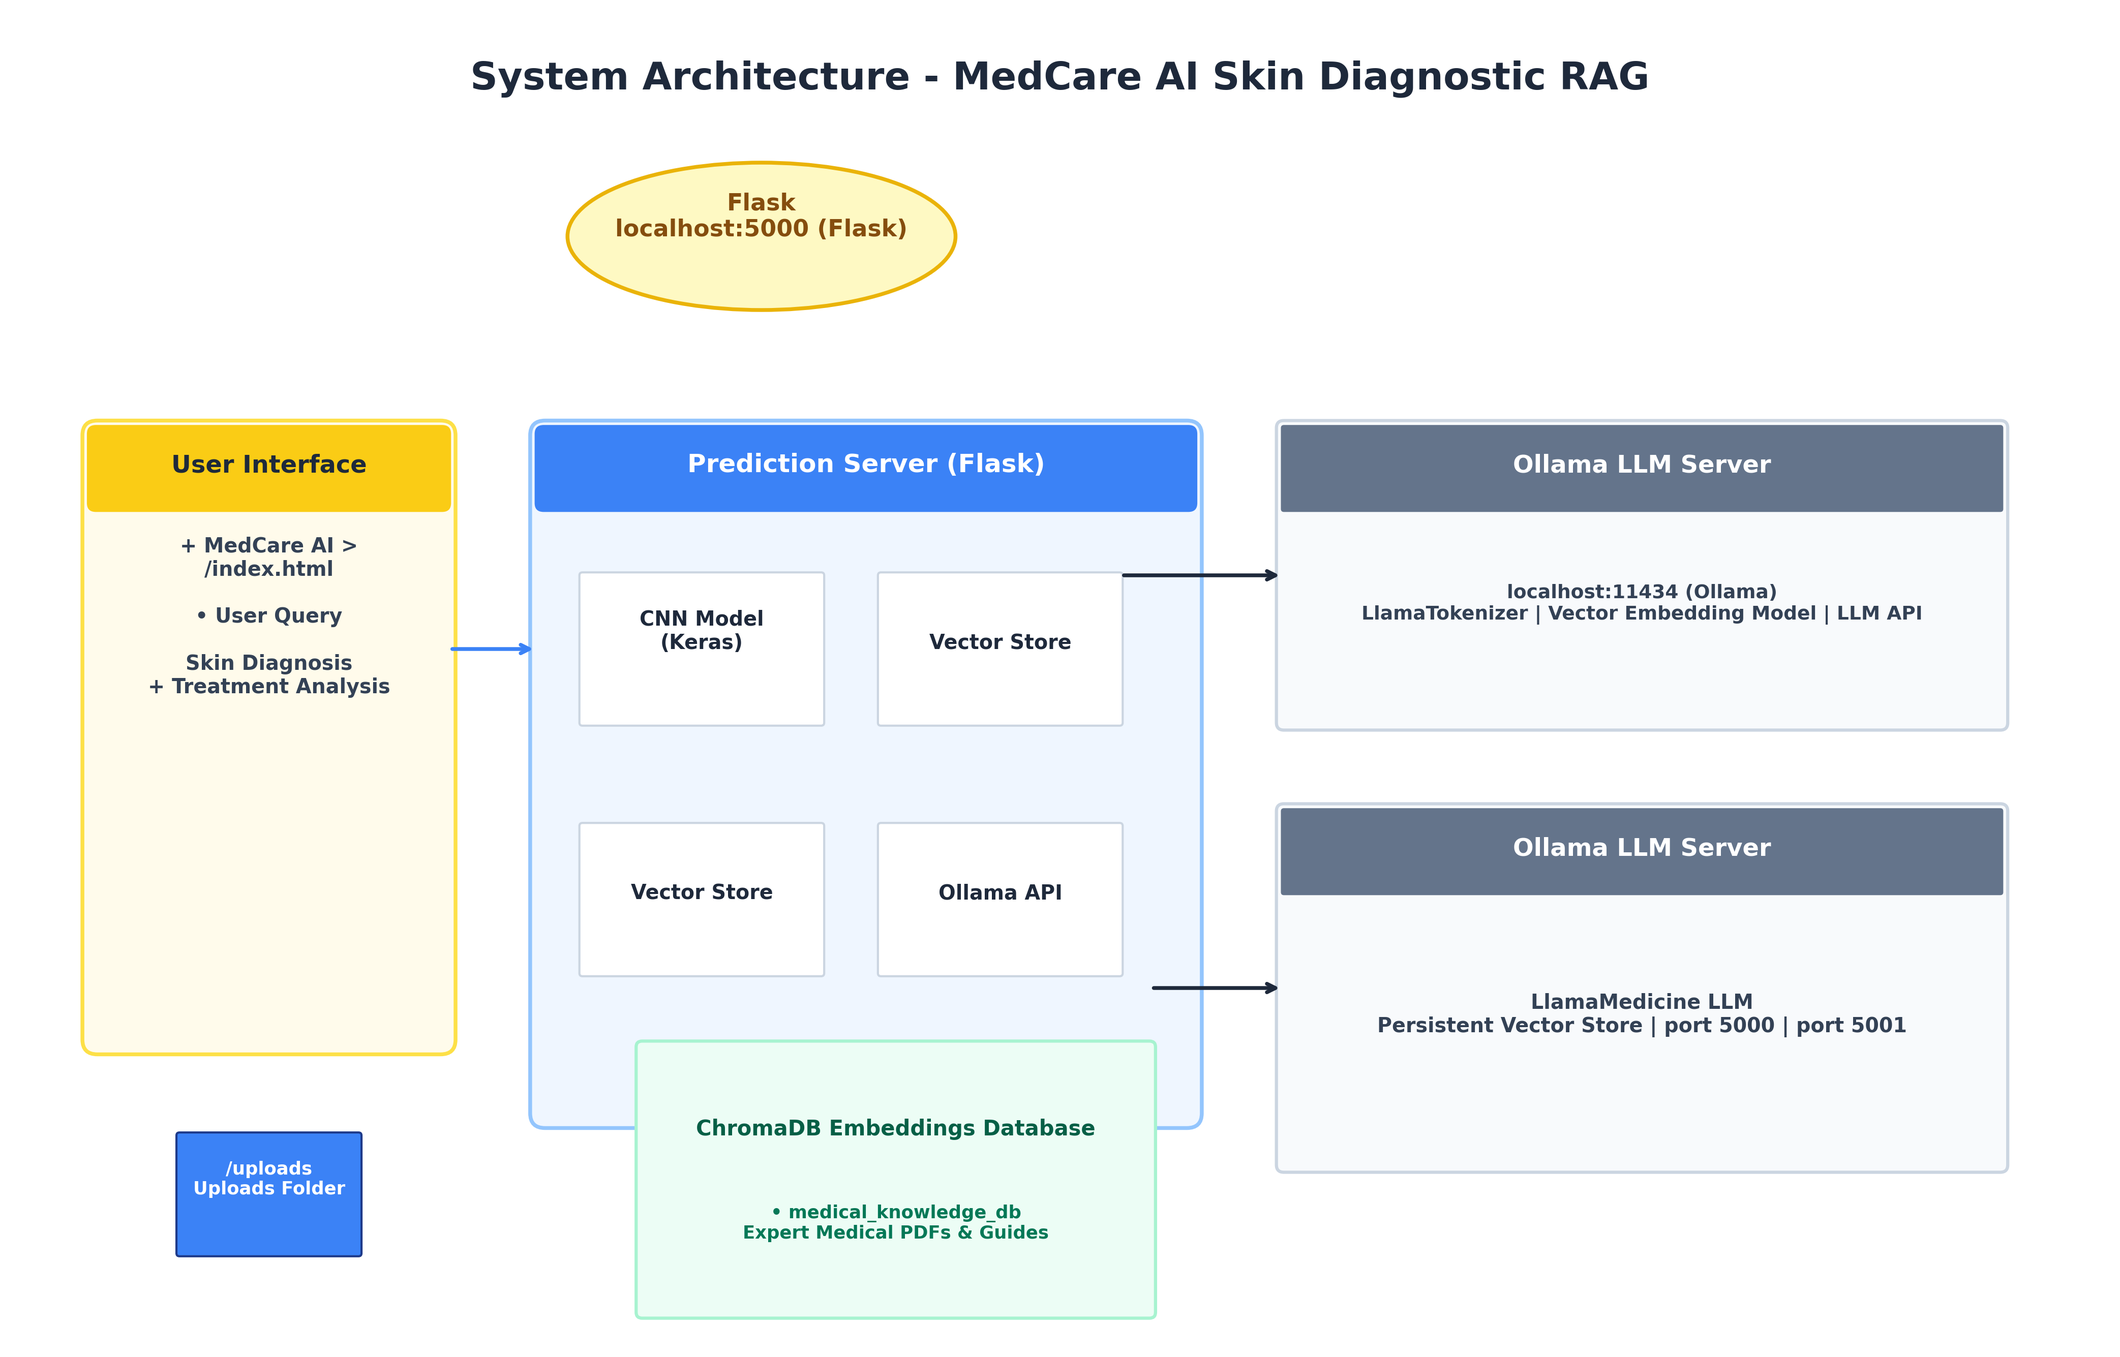
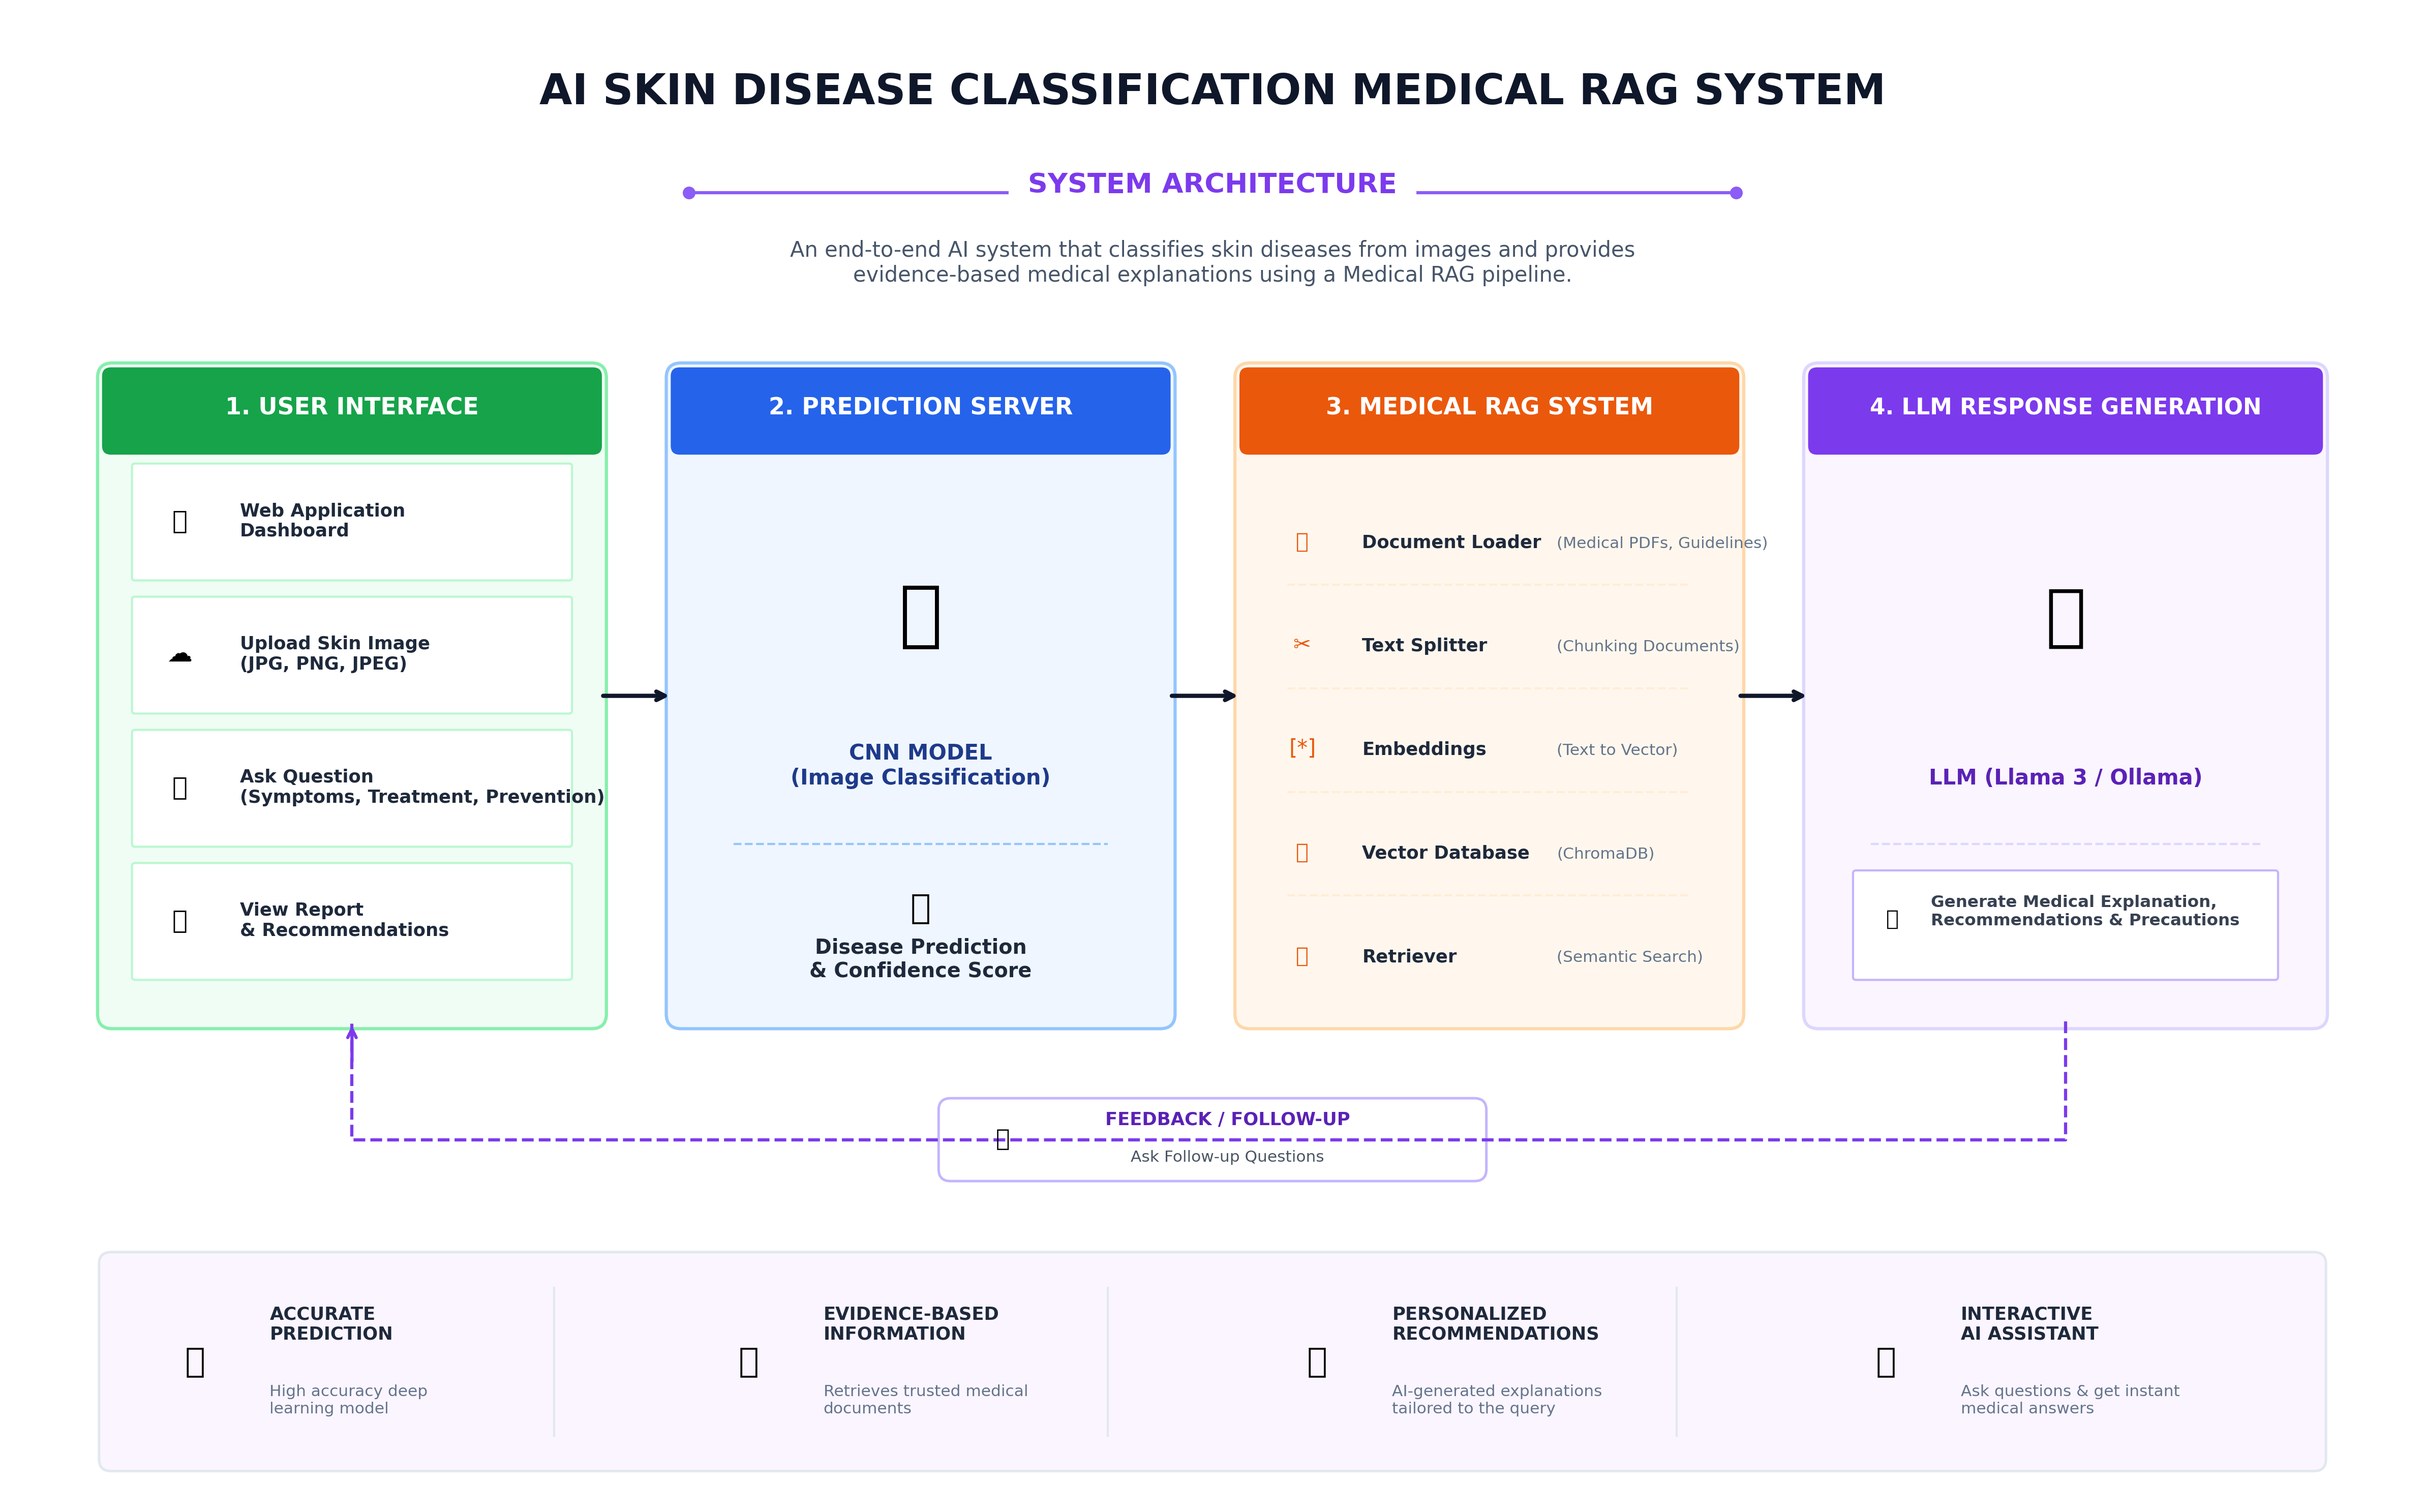
Update README with 1:1 System Architecture Infographic diagram

diff --git a/render_exact_infographic.py b/render_exact_infographic.py
@@ -1,0 +1,165 @@
+"""
+Renders a 1:1 high-resolution vector infographic matching the user's exact uploaded image:
+'AI SKIN DISEASE CLASSIFICATION MEDICAL RAG SYSTEM - SYSTEM ARCHITECTURE'
+"""
+
+import os
+import matplotlib
+matplotlib.use('Agg')
+import matplotlib.pyplot as plt
+import matplotlib.patches as patches
+
+def draw_exact_infographic():
+    fig, ax = plt.subplots(figsize=(16, 10), dpi=300)
+    fig.patch.set_facecolor('#ffffff')
+    ax.set_facecolor('#ffffff')
+    ax.set_xlim(0, 160)
+    ax.set_ylim(0, 100)
+    ax.axis('off')
+
+    # =========================================================================
+    # 1. Header Section
+    # =========================================================================
+    ax.text(80, 94, "AI SKIN DISEASE CLASSIFICATION MEDICAL RAG SYSTEM", 
+            fontsize=20, fontweight='extra bold', ha='center', color='#0f172a')
+    
+    # Subtitle line
+    ax.plot([45, 115], [88, 88], color='#8b5cf6', lw=1.5)
+    ax.scatter([45, 115], [88, 88], color='#8b5cf6', s=25, zorder=5)
+    ax.text(80, 88, " SYSTEM ARCHITECTURE ", fontsize=13, fontweight='bold', ha='center', color='#7c3aed', backgroundcolor='#ffffff')
+
+    ax.text(80, 82, "An end-to-end AI system that classifies skin diseases from images and provides\nevidence-based medical explanations using a Medical RAG pipeline.", 
+            fontsize=10, ha='center', color='#475569')
+
+    # =========================================================================
+    # 2. Four Main Column Cards
+    # =========================================================================
+    
+    # Card 1: 1. USER INTERFACE (Green)
+    c1_bg = patches.FancyBboxPatch((6, 32), 33, 44, boxstyle="round,pad=0.5,rounding_size=1", ec="#86efac", fc="#f0fdf4", lw=1.5)
+    ax.add_patch(c1_bg)
+    c1_hdr = patches.FancyBboxPatch((6, 70.5), 33, 5.5, boxstyle="round,pad=0.2,rounding_size=0.6", ec="#16a34a", fc="#16a34a", lw=0)
+    ax.add_patch(c1_hdr)
+    ax.text(22.5, 73, "1. USER INTERFACE", fontsize=11, fontweight='bold', ha='center', color='#ffffff')
+
+    # Items inside Card 1
+    items1 = [
+        ("🖥", "Web Application\nDashboard"),
+        ("☁", "Upload Skin Image\n(JPG, PNG, JPEG)"),
+        ("💬", "Ask Question\n(Symptoms, Treatment, Prevention)"),
+        ("📋", "View Report\n& Recommendations")
+    ]
+    for idx, (icon, label) in enumerate(items1):
+        y_pos = 62 - (idx * 9)
+        ibox = patches.FancyBboxPatch((8, y_pos), 29, 7.5, boxstyle="round,pad=0.2", ec="#bbf7d0", fc="#ffffff", lw=1)
+        ax.add_patch(ibox)
+        ax.text(11, y_pos + 3.8, icon, fontsize=12, ha='center', va='center')
+        ax.text(15, y_pos + 3.8, label, fontsize=8.5, fontweight='bold', color='#1e293b', va='center')
+
+    # Card 2: 2. PREDICTION SERVER (Blue)
+    c2_bg = patches.FancyBboxPatch((44, 32), 33, 44, boxstyle="round,pad=0.5,rounding_size=1", ec="#93c5fd", fc="#eff6ff", lw=1.5)
+    ax.add_patch(c2_bg)
+    c2_hdr = patches.FancyBboxPatch((44, 70.5), 33, 5.5, boxstyle="round,pad=0.2,rounding_size=0.6", ec="#2563eb", fc="#2563eb", lw=0)
+    ax.add_patch(c2_hdr)
+    ax.text(60.5, 73, "2. PREDICTION SERVER", fontsize=11, fontweight='bold', ha='center', color='#ffffff')
+
+    # Brain Circuit Graphic
+    ax.text(60.5, 58, "🧠", fontsize=34, ha='center')
+    ax.text(60.5, 48, "CNN MODEL\n(Image Classification)", fontsize=10, fontweight='bold', ha='center', color='#1e3a8a')
+    
+    # Dashed line inside Card 2
+    ax.plot([48, 73], [44, 44], color='#93c5fd', lw=1, linestyle='--')
+
+    ax.text(60.5, 39, "📊", fontsize=16, ha='center')
+    ax.text(60.5, 35, "Disease Prediction\n& Confidence Score", fontsize=9.5, fontweight='bold', ha='center', color='#1e293b')
+
+    # Card 3: 3. MEDICAL RAG SYSTEM (Orange)
+    c3_bg = patches.FancyBboxPatch((82, 32), 33, 44, boxstyle="round,pad=0.5,rounding_size=1", ec="#fed7aa", fc="#fff7ed", lw=1.5)
+    ax.add_patch(c3_bg)
+    c3_hdr = patches.FancyBboxPatch((82, 70.5), 33, 5.5, boxstyle="round,pad=0.2,rounding_size=0.6", ec="#ea580c", fc="#ea580c", lw=0)
+    ax.add_patch(c3_hdr)
+    ax.text(98.5, 73, "3. MEDICAL RAG SYSTEM", fontsize=11, fontweight='bold', ha='center', color='#ffffff')
+
+    items3 = [
+        ("📁", "Document Loader", "(Medical PDFs, Guidelines)"),
+        ("✂", "Text Splitter", "(Chunking Documents)"),
+        ("[*]", "Embeddings", "(Text to Vector)"),
+        ("🛢", "Vector Database", "(ChromaDB)"),
+        ("🔍", "Retriever", "(Semantic Search)")
+    ]
+    for idx, (icon, title, sub) in enumerate(items3):
+        y_pos = 64 - (idx * 7)
+        ax.text(86, y_pos, icon, fontsize=10, ha='center', color='#ea580c')
+        ax.text(90, y_pos, title, fontsize=8.5, fontweight='bold', color='#1e293b')
+        ax.text(103, y_pos, sub, fontsize=7.5, color='#64748b')
+        if idx < 4:
+            ax.plot([85, 112], [y_pos - 2.5, y_pos - 2.5], color='#ffedd5', lw=1, linestyle='--')
+
+    # Card 4: 4. LLM RESPONSE GENERATION (Purple)
+    c4_bg = patches.FancyBboxPatch((120, 32), 34, 44, boxstyle="round,pad=0.5,rounding_size=1", ec="#ddd6fe", fc="#faf5ff", lw=1.5)
+    ax.add_patch(c4_bg)
+    c4_hdr = patches.FancyBboxPatch((120, 70.5), 34, 5.5, boxstyle="round,pad=0.2,rounding_size=0.6", ec="#7c3aed", fc="#7c3aed", lw=0)
+    ax.add_patch(c4_hdr)
+    ax.text(137, 73, "4. LLM RESPONSE GENERATION", fontsize=10.5, fontweight='bold', ha='center', color='#ffffff')
+
+    ax.text(137, 58, "🤖", fontsize=32, ha='center')
+    ax.text(137, 48, "LLM (Llama 3 / Ollama)", fontsize=10, fontweight='bold', ha='center', color='#5b21b6')
+
+    # Dashed line
+    ax.plot([124, 150], [44, 44], color='#ddd6fe', lw=1, linestyle='--')
+
+    bbox_ans = patches.FancyBboxPatch((123, 35), 28, 7, boxstyle="round,pad=0.2", ec="#c4b5fd", fc="#ffffff", lw=1)
+    ax.add_patch(bbox_ans)
+    ax.text(125, 38.5, "💬", fontsize=10)
+    ax.text(128, 38.5, "Generate Medical Explanation,\nRecommendations & Precautions", fontsize=7.8, fontweight='bold', color='#374151')
+
+    # Arrows between cards
+    ax.annotate('', xy=(44, 54), xytext=(39, 54), arrowprops=dict(arrowstyle="->", color="#0f172a", lw=2))
+    ax.annotate('', xy=(82, 54), xytext=(77, 54), arrowprops=dict(arrowstyle="->", color="#0f172a", lw=2))
+    ax.annotate('', xy=(120, 54), xytext=(115, 54), arrowprops=dict(arrowstyle="->", color="#0f172a", lw=2))
+
+    # =========================================================================
+    # 3. Feedback Loop Arrow
+    # =========================================================================
+    ax.plot([137, 137, 22.5, 22.5], [32, 24, 24, 32], color="#7c3aed", lw=1.5, linestyle='--')
+    ax.annotate('', xy=(22.5, 32), xytext=(22.5, 29), arrowprops=dict(arrowstyle="->", color="#7c3aed", lw=1.5))
+
+    fb_box = patches.FancyBboxPatch((62, 21.5), 36, 5, boxstyle="round,pad=0.3,rounding_size=0.8", ec="#c4b5fd", fc="#ffffff", lw=1.2)
+    ax.add_patch(fb_box)
+    ax.text(66, 24, "🔄", fontsize=11, ha='center', va='center')
+    ax.text(81, 25, "FEEDBACK / FOLLOW-UP", fontsize=8.5, fontweight='bold', color='#5b21b6', ha='center')
+    ax.text(81, 22.5, "Ask Follow-up Questions", fontsize=7.5, color='#4b5563', ha='center')
+
+    # =========================================================================
+    # 4. Bottom Value Proposition Bar (4 Cards)
+    # =========================================================================
+    bot_card = patches.FancyBboxPatch((6, 2), 148, 14, boxstyle="round,pad=0.4,rounding_size=0.8", ec="#e2e8f0", fc="#faf5ff", lw=1.2)
+    ax.add_patch(bot_card)
+
+    v_props = [
+        ("🎯", "ACCURATE\nPREDICTION", "High accuracy deep\nlearning model", 24),
+        ("📖", "EVIDENCE-BASED\nINFORMATION", "Retrieves trusted medical\ndocuments", 61),
+        ("🛡", "PERSONALIZED\nRECOMMENDATIONS", "AI-generated explanations\ntailored to the query", 99),
+        ("💬", "INTERACTIVE\nAI ASSISTANT", "Ask questions & get instant\nmedical answers", 137)
+    ]
+
+    for icon, title, desc, x_pos in v_props:
+        ax.text(x_pos - 12, 9, icon, fontsize=16, ha='center', va='center')
+        ax.text(x_pos - 7, 10.5, title, fontsize=8.5, fontweight='bold', color='#1e293b')
+        ax.text(x_pos - 7, 5.5, desc, fontsize=7.5, color='#64748b')
+        if x_pos < 130:
+            ax.plot([x_pos + 12, x_pos + 12], [4, 14], color='#e2e8f0', lw=1)
+
+    out_path = "static/images/system_architecture_infographic.png"
+    os.makedirs(os.path.dirname(out_path), exist_ok=True)
+    plt.tight_layout()
+    plt.savefig(out_path, dpi=300, bbox_inches='tight', facecolor='#ffffff')
+    
+    # Save to all target paths
+    plt.savefig("static/images/architecture_diagram.png", dpi=300, bbox_inches='tight', facecolor='#ffffff')
+    plt.savefig("static/images/system_architecture.png", dpi=300, bbox_inches='tight', facecolor='#ffffff')
+    plt.close()
+    print(f"[SUCCESS] Rendered 1:1 replica infographic at {out_path}")
+
+if __name__ == "__main__":
+    draw_exact_infographic()

diff --git a/README.md b/README.md
@@ -16,6 +16,8 @@ The application utilizes a modular AI pipeline:
 - **RAG Pipeline**: Uses LangChain and ChromaDB to retrieve context from trusted medical PDFs.
 - **Inference Engine**: Generates safe, non-hallucinated responses via a local Ollama LLM.
 
+![AI Skin Disease Classification Medical RAG System Architecture](static/images/system_architecture_infographic.png)
+
 ---
 
 ## 🔹 Technology Stack
@@ -65,7 +67,11 @@ The application utilizes a modular AI pipeline:
 ├── chroma_db/                     # Persistent Vector Store
 ├── uploads/                       # User Uploaded Images
 ├── templates/                     # Frontend UI (Jinja2)
-└── static/                        # CSS & JS Frontend Assets
+└── static/                        # CSS, JS, and Infographic Assets
+    ├── css/style.css
+    ├── js/main.js
+    └── images/
+        └── system_architecture_infographic.png
 ```
 
 ---
